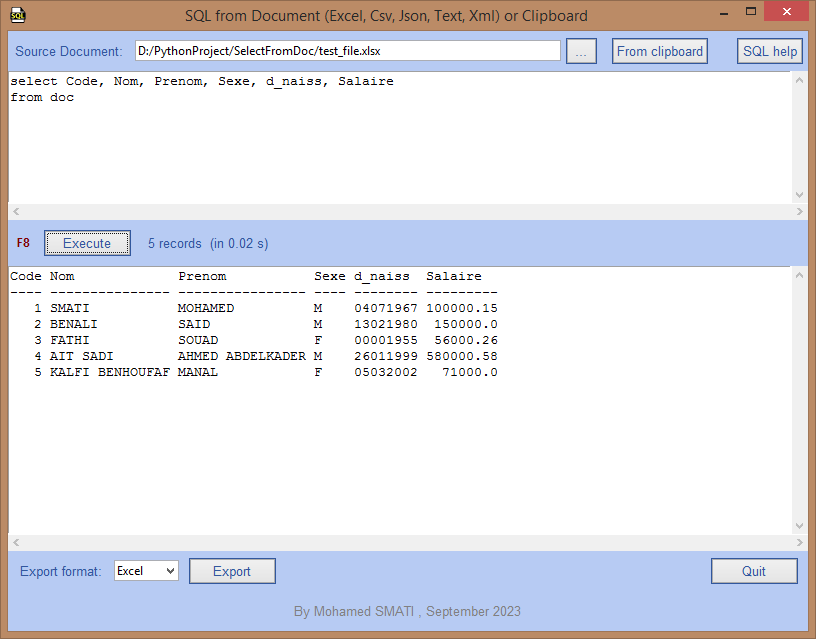
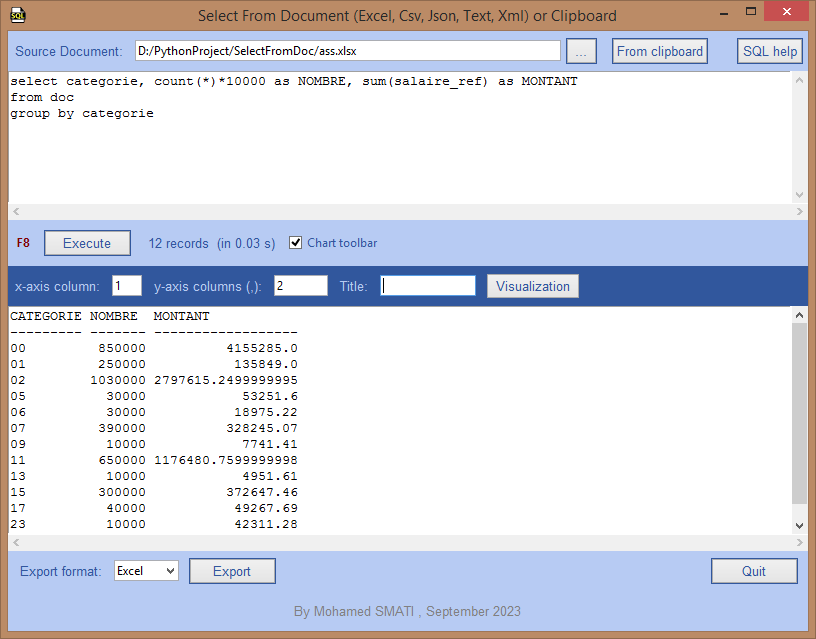
...

diff --git a/SelectFromDoc.py b/SelectFromDoc.py
@@ -29,9 +29,10 @@ screen_width = root.winfo_screenwidth()
 screen_height = root.winfo_screenheight()
 root.geometry(f'{root_width}x{root_height}+{(screen_width-root_width) // 2}+{(screen_height-root_height) // 2}')
 
-root.title('SQL from Document (Excel, Csv, Json, Text, Xml) or Clipboard')
+root.title('Select From Document (Excel, Csv, Json, Text, Xml) or Clipboard')
 # root.iconbitmap(path.abspath(path.join(path.dirname(__file__), 'SelectFromDoc.ico')))
 root.iconbitmap('SelectFromDoc.ico')
+
 
 def on_resize(event):
     # Update the size of 'frame_sql_resultat' when the window is resized
@@ -668,35 +669,19 @@ def Exporter():
 
 
 def displayGraph(df: pd.DataFrame, title: str, xAxisNum: str, yAxisNums: str, xLabel: str = None, yLabel: str = None, yLegendLabels: str = None, bar_width=0.2):
-    # global xAxis, yAxis, df
 
     # plt.figure(figsize=(10, 6))
     plt.figure()
-
-    # Define the width of each bar
-    # bar_width = 0.2  ###
+    # fig, ax = plt.subplots()
 
     columnNameUsed_for_xAxis = df.columns[int(xAxisNum)-1]
-    # print('*** xAxis: ',columnNameUsed_for_xAxis)
 
     if xLabel is None:
         xLabel = columnNameUsed_for_xAxis
 
-    # x_positions = np.arange(len(df[df.columns[int(xAxis.get())-1]]))  # Create equally spaced x positions
     x_positions = np.arange(len(df[columnNameUsed_for_xAxis]))  # Create equally spaced x positions
 
-    # print('*'*30)
-    # print(int(xAxis.get()))
-    # print(df.columns[int(xAxis.get())-1])
-    # print(int(yAxis.get()))
-    # print(df.columns[int(yAxis.get())-1])
-    # print('*'*30)
-
-    # plt.bar(x_positions, df[df.columns[int(yAxis.get())-1]], width=bar_width, label='colonne')
-
-    columnsNamesUsed_for_yAxis = [df.columns[int(x)-1] for x in yAxisNums.split(',')]
-    # print('*** yAxis:',columnsNamesUsed_for_yAxis)
-
+    columnsNamesUsed_for_yAxis = [df.columns[int(x)-1] for x in yAxisNums.split(',') if x!='']
 
     lGenerate_yLabel = False
     if yLabel is None:
@@ -730,6 +715,16 @@ def displayGraph(df: pd.DataFrame, title: str, xAxisNum: str, yAxisNums: str, xL
     plt.xticks(rotation=45)
 
     plt.tight_layout()
+    # plt.subplots_adjust(left=0.2, right=0.8, top=0.8, bottom=0.2)
+
+    fig = plt.gcf()
+    fig_width, fig_height = fig.get_size_inches()
+    pos_x = int((screen_width - fig_width * fig.dpi) / 2)
+    pos_y = int((screen_height - fig_height * fig.dpi) / 2)
+
+    # Set the position
+    plt.get_current_fig_manager().window.wm_geometry(f"+{pos_x}+{pos_y}")
+
     plt.show()
 
 
@@ -740,7 +735,63 @@ def changerDisplayGraphBar():
     else:
         frame_2bis.grid_remove()
 
-# ===========================================================================
+
+def isOk_value_xAxis(valeur):
+    global df
+    if valeur.isdigit():
+        if int(valeur) <= len(df.columns) and valeur not in yAxis.get().split(','):
+            return True
+        else:
+            return False
+    else:
+        return False
+
+def on_validate_xAxis(valeur):
+    if valeur == '':
+        lOkValeur = True
+    else:
+        lOkValeur = isOk_value_xAxis(valeur)
+
+    if valeur != '' and lOkValeur and isOk_value_yAxis(yAxis.get()):
+        boutonVisualisation["state"] = "normal"
+    else:
+        boutonVisualisation["state"] = "disabled"
+
+    return lOkValeur
+
+
+validate_xAxis = root.register(on_validate_xAxis)
+
+
+def isOk_value_yAxis(valeur):
+    global df
+    lAllOk = True
+    if valeur != '':
+        for val in valeur.split(','):
+            if val != '':
+                if not val.isdigit() or int(val) > len(df.columns) or val == xAxis.get():
+                    lAllOk = False
+    return lAllOk
+
+def on_validate_yAxis(valeur):
+    if valeur == '':
+        lOkValeur = True
+    else:
+        lOkValeur = isOk_value_yAxis(valeur)
+    
+    if isOk_value_xAxis(xAxis.get()) and valeur != '' and lOkValeur:
+        boutonVisualisation["state"] = "normal"
+    else:
+        boutonVisualisation["state"] = "disabled"
+
+    return lOkValeur
+
+validate_yAxis = root.register(on_validate_yAxis)
+
+
+# * ===========================================================================
+# * ===========================================================================
+# * ===========================================================================
 
 
 global doc
@@ -830,7 +881,7 @@ lblTempsExec.pack(side=LEFT, padx=10, pady=10)
 
 # --- option "Graph"
 displayGraphBar = IntVar()
-option_wordwrap = ttk.Checkbutton(frame_2, text="Graph", variable=displayGraphBar, onvalue=1, offvalue=0, width=6, command=changerDisplayGraphBar)
+option_wordwrap = ttk.Checkbutton(frame_2, text="Chart toolbar", variable=displayGraphBar, onvalue=1, offvalue=0, width=12, command=changerDisplayGraphBar)
 ttk.Style().configure("Custom.TCheckbutton", foreground=fg_color_default_Label, background=bg_color_default)
 option_wordwrap.configure(style="Custom.TCheckbutton")
 option_wordwrap.pack(side=LEFT)
@@ -844,26 +895,35 @@ frame_2bis_row = current_row
 frame_2bis.grid(row=frame_2bis_row, column=0, columnspan=2, sticky='WE')
 frame_2bis.grid_remove()
 
-lblXAxis = ttk.Label(frame_2bis, text="x-axis:")
+lblXAxis = ttk.Label(frame_2bis, text="x-axis column:")
 lblXAxis.configure(style='GraphBar.TLabel')
 lblXAxis.pack(side=LEFT, padx=5, pady=10)
 
-xAxis = StringVar(value=1)
-entXAxis = ttk.Entry(frame_2bis, textvariable=xAxis, width=4)
+# xAxis = StringVar(value=1)
+xAxis = StringVar()
+entXAxis = ttk.Entry(frame_2bis, textvariable=xAxis, width=4, validate="key", validatecommand=(validate_xAxis, '%P'))
 entXAxis.pack(side=LEFT, padx=5)
 
-lblYAxis = ttk.Label(frame_2bis, text="y-axis:")
+lblYAxis = ttk.Label(frame_2bis, text="y-axis columns (,):")
 lblYAxis.configure(style='GraphBar.TLabel')
 lblYAxis.pack(side=LEFT, padx=5, pady=10)
 
-yAxis = StringVar(value=2)
-entYAxis = ttk.Entry(frame_2bis, textvariable=yAxis, width=8)
+# yAxis = StringVar(value=2)
+yAxis = StringVar()
+entYAxis = ttk.Entry(frame_2bis, textvariable=yAxis, width=8, validate="key", validatecommand=(validate_yAxis, '%P'))
 entYAxis.pack(side=LEFT, padx=5)
 
-butGraph = ttk.Button(frame_2bis, text='Graph', width=6, command= lambda: displayGraph(df, 'Mon Titre', xAxis.get(), yAxis.get()))
+lblTitre = ttk.Label(frame_2bis, text="Title:")
+lblTitre.configure(style='GraphBar.TLabel')
+lblTitre.pack(side=LEFT, padx=5)
 
-# butGraph = ttk.Button(frame_2bis, text='Graph', width=6, state="disabled", command=displayGraph)
-butGraph.pack(side=LEFT, padx=5)
+Titre = StringVar()
+entTitre = ttk.Entry(frame_2bis, textvariable=Titre, width=15)
+entTitre.pack(side=LEFT, padx=5)
+
+boutonVisualisation = ttk.Button(frame_2bis, text='Visualization', state="disabled", width=12, command= lambda: displayGraph(df, Titre.get(), xAxis.get(), yAxis.get()))
+# boutonVisualisation = ttk.Button(frame_2bis, text='Graph', width=6, state="disabled", command=displayGraph)
+boutonVisualisation.pack(side=LEFT, padx=5)
 
 current_row += 1
 

diff --git a/README.md b/README.md
@@ -1,5 +1,5 @@
 # SelectFromDoc
-This program lets you select data from documents (Excel, CSV, JSON, Text, XML) or clipboard using SQL language.
+This program lets you select data from documents (Excel, CSV, JSON, Text, XML) or clipboard using SQL language, with the possibility to visualize data in charts.
 
 
 ## Cloning the repository
@@ -23,7 +23,7 @@ Create the virtual environment:
 set pipenv_venv_in_project=1
 pipenv install
 ```
-The requirements, stored in the file 'Pipfile', (pandas, pandasql, openpyxl, lxml) will be automatically installed
+The requirements, stored in the file 'Pipfile', (pandas, pandasql, openpyxl, lxml, matplotlib) will be automatically installed.
 
 - Activate the virtual environment :
 ```
